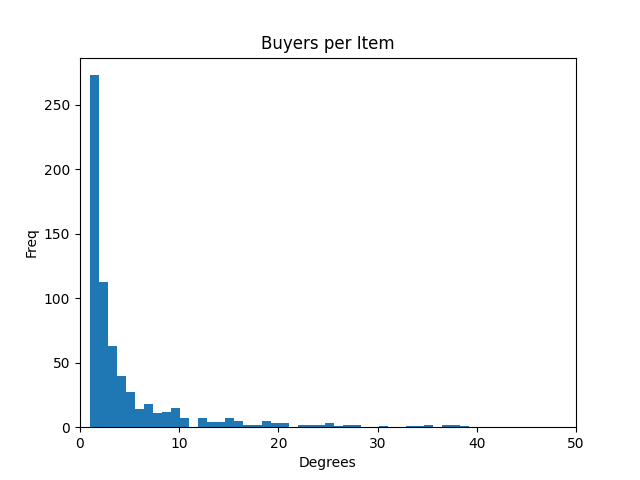
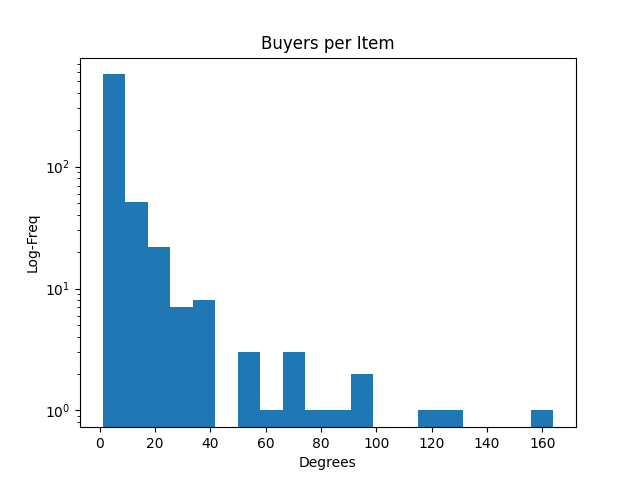
Added degree distributions for processed dataset

diff --git a/eda_transform.py b/eda_transform.py
@@ -1,0 +1,22 @@
+import matplotlib.pyplot as plt  # for plotting
+import networkx as nx
+from networkx.algorithms import bipartite
+
+from analytics.utils import load_dataset, plot_degree_dist, create_degree_list
+from dataloader.utils import get_transformed_dataframe
+
+df_ebid = load_dataset("data/ebid_buyer_item_seller_id_R_2.txt")
+new_ebid = get_transformed_dataframe(df_ebid)
+
+deg_bi_buyer, deg_bi_pair = create_degree_list(new_ebid, "buyer", "pair")
+
+plot_degree_dist(deg_bi_buyer, "plots_transform/ebid_buyer_pair_deg.png", "Item-Sellers per Buyer")
+plot_degree_dist(deg_bi_pair, "plots_transform/ebid_pair_buyer_deg.png", "Buyers per Item-Seller")
+
+df_bonanza = load_dataset("data/bonanza_buyer_item_seller_id_R_2.txt")
+new_ebid = get_transformed_dataframe(df_bonanza)
+
+deg_bi_buyer, deg_bi_pair = create_degree_list(new_ebid, "buyer", "pair")
+
+plot_degree_dist(deg_bi_buyer, "plots_transform/bonanza_buyer_pair_deg.png", "Item-Sellers per Buyer")
+plot_degree_dist(deg_bi_pair, "plots_transform/bonanza_pair_buyer_deg.png", "Buyers per Item-Seller")

diff --git a/dataloader/utils.py b/dataloader/utils.py
@@ -65,18 +65,16 @@ def generate_model_data(dataframe: pd.DataFrame,
                     flat_list=True)
     save_data_files(item_suplier_map, f"{file_dir}/item_suplier_map.csv")
 
-def get_transformed_dataframe(dataframe: pd.DataFrame,
-                        file_dir: str,
-                        test_size: float = 0.2) -> None:
+def get_transformed_dataframe(dataframe: pd.DataFrame):
     item_suplier_map = dict()
-    create_subfolders_if_not(file_dir, dir_struct=True)
 
     for idx, row in dataframe.groupby(['item', 'seller'
                                        ]).size().reset_index().iterrows():
         if not item_suplier_map.get((row['item'], row['seller'])):
             item_suplier_map[(row['item'], row['seller'])] = idx
+    dataframe['pair'] = dataframe.apply(lambda row: item_suplier_map[(row['item'], row['seller'])], axis=1)
 
-    user_item = process_dataframe(dataframe, item_suplier_map)
+    return dataframe
 
 
 

diff --git a/analytics/utils.py b/analytics/utils.py
@@ -46,11 +46,11 @@ def plot_degree_dist(degrees,
                      plot_name: str,
                      xlim: Tuple[int] = (0, 50)):
     # degrees = [graph.degree(n) for n in graph.nodes()]
-
-    plt.hist(degrees, bins='auto')
-    plt.xlim(*xlim)
+    # plt.xscale('log')
+    plt.hist(degrees, bins=20, log=True)
+    # plt.xlim(*xlim)
     plt.xlabel("Degrees")
-    plt.ylabel("Freq")
+    plt.ylabel("Log-Freq")
     plt.title(plot_name)
     plt.savefig(plot_path)
     plt.clf()
